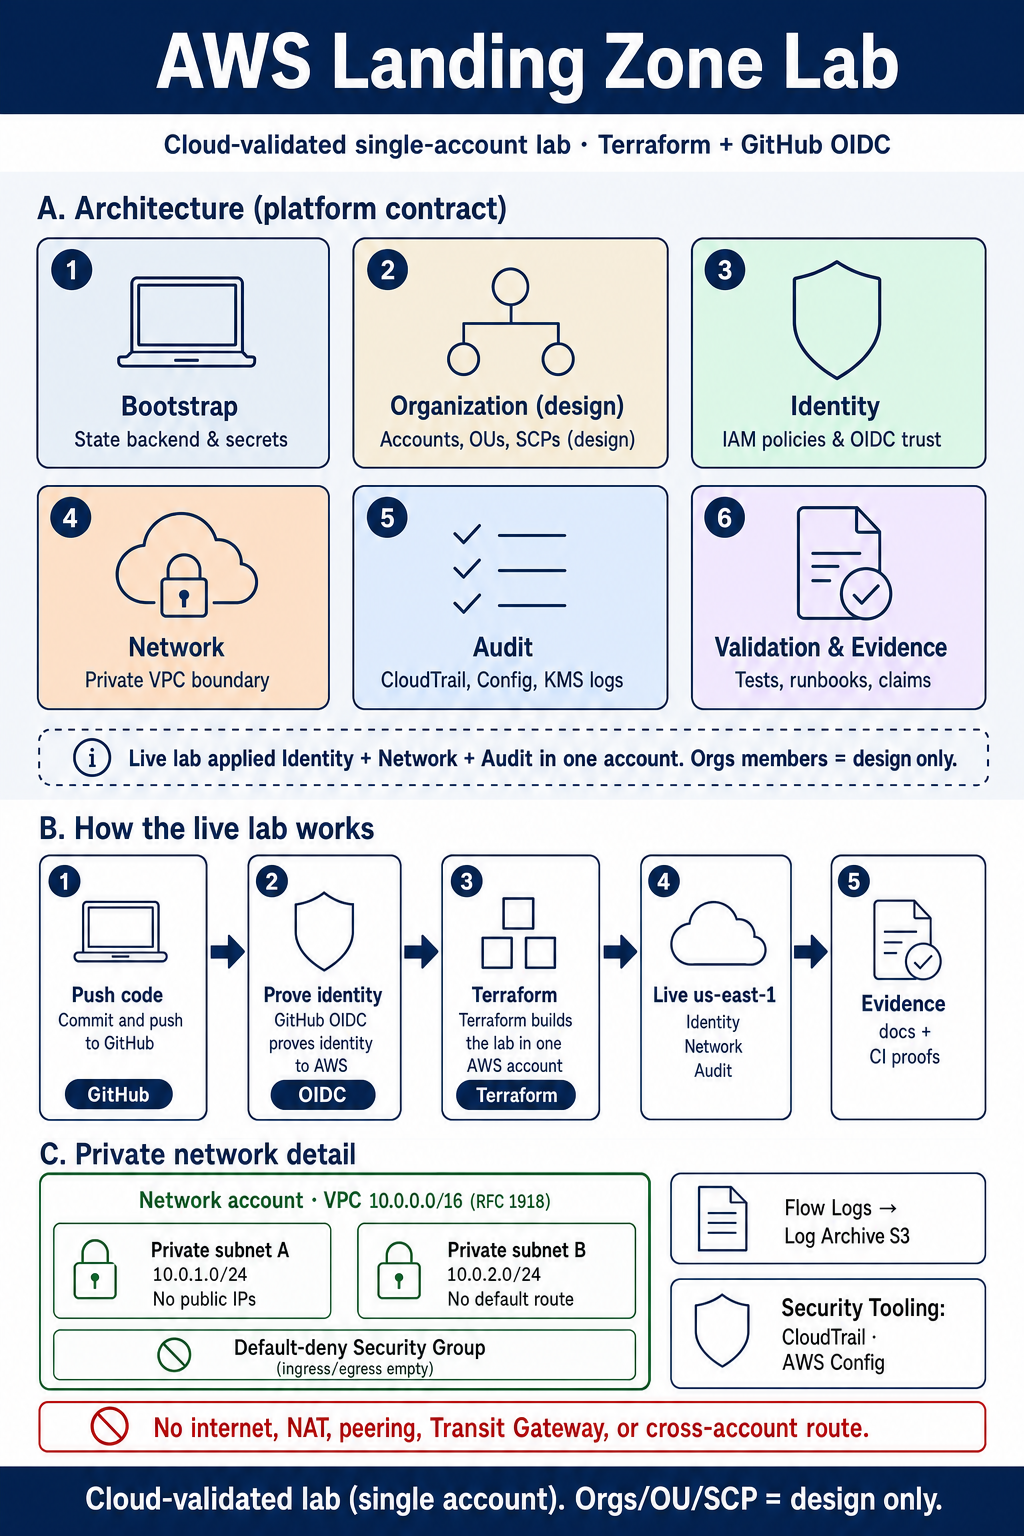
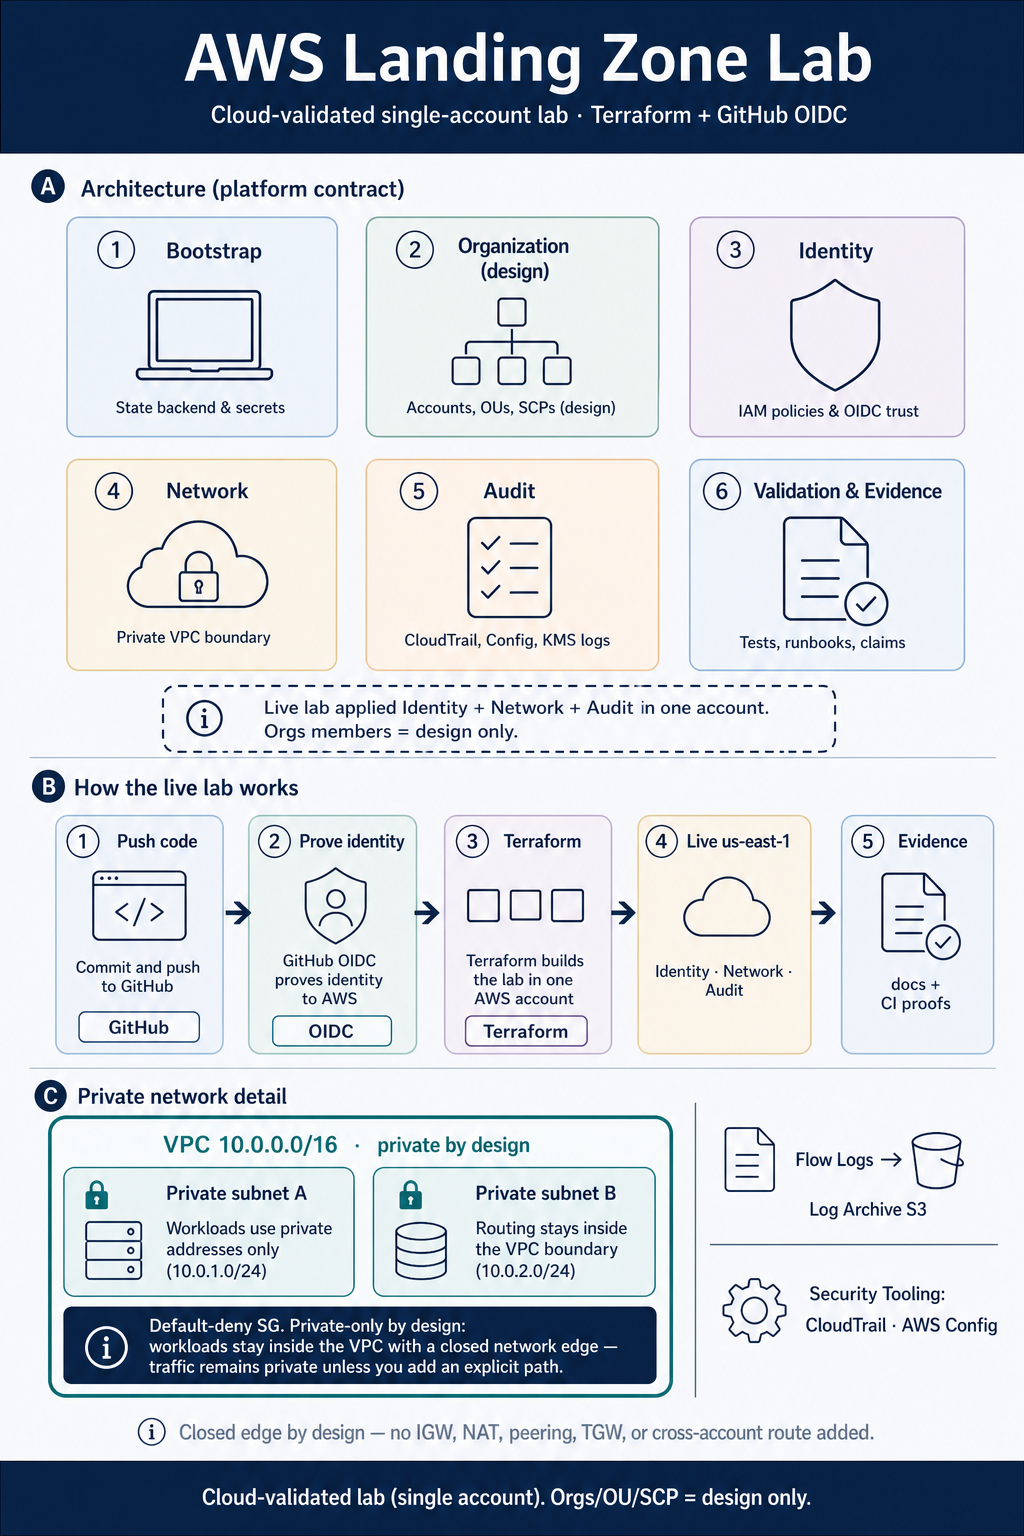
fix: sleek lab figure with private-by-design network edge
Regenerate the consolidated diagram with sleek generic icons and rephrase
the closed edge as intentional private-by-design (not a red deficiency banner).

diff --git a/README.md b/README.md
@@ -19,7 +19,7 @@ Formerly the `cloud` monorepo; the Ralphy smoke harness now lives in
 |-------|----------------|
 | **A. Architecture** | Bootstrap → Organization (design) → Identity → Network → Audit → Validation. Live lab applied identity + network + audit in one account. |
 | **B. How it works** | Push → OIDC → Terraform (one account) → live resources → evidence. |
-| **C. Private network** | Private subnets, default-deny SG, Flow Logs → Log Archive. No internet, NAT, peering, Transit Gateway, or cross-account route. |
+| **C. Private network** | Private-by-design VPC: private subnets, default-deny SG, closed network edge (no IGW/NAT/peering/TGW unless added). Flow Logs → Log Archive. |
 
 <p align="center"><sub>
 Diagrams use generic icons and plain product-name text only (no third-party logo artwork).
